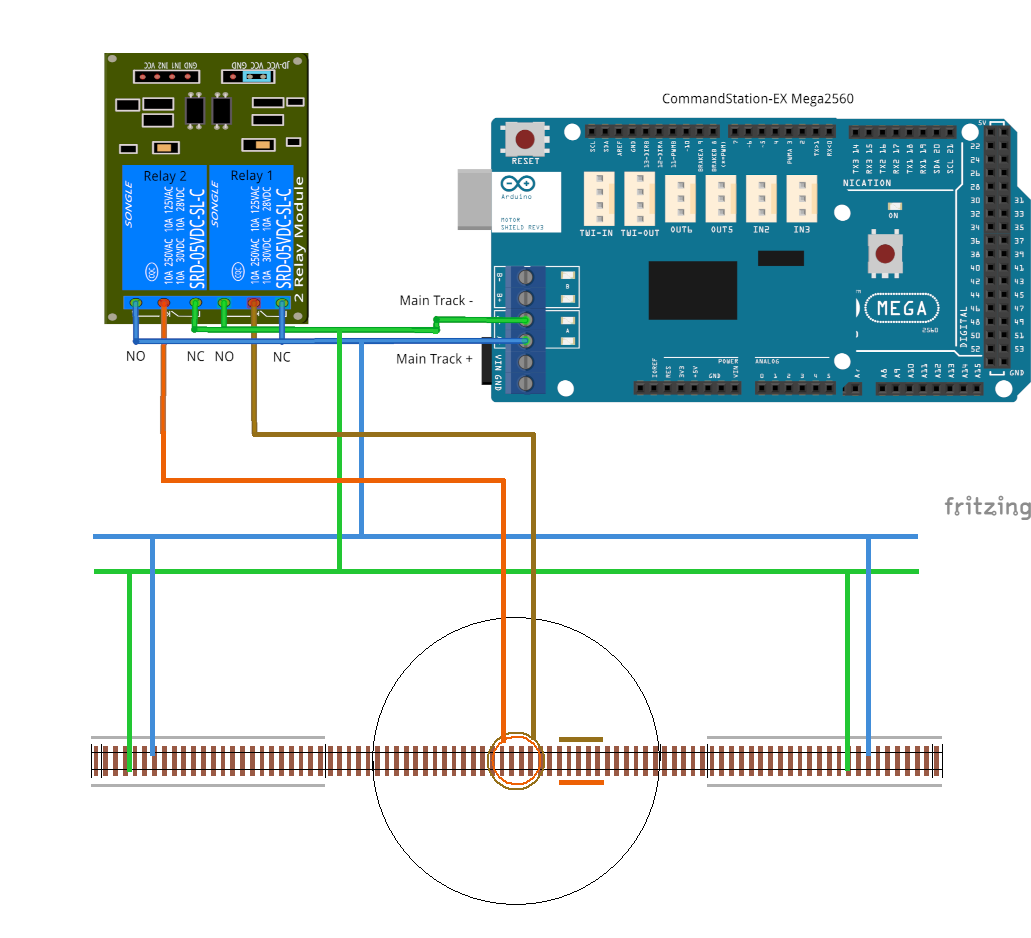
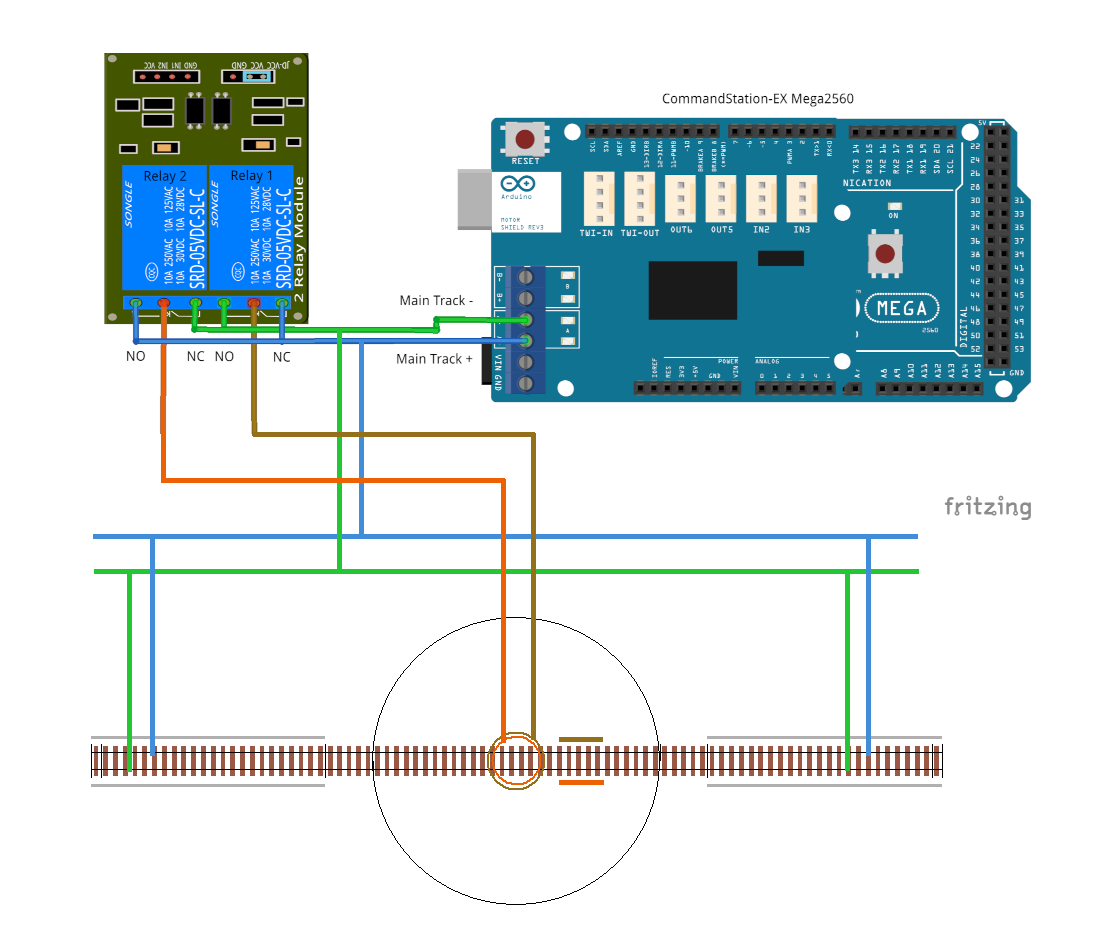
Connection wiring done plus extras

Changed region(s): [[0.0931, 0.0309, 1.0, 0.6183], [0.0621, 0.4638, 1.0, 0.8657]]

diff --git a/docs/turntable-ex/layout-wiring.rst b/docs/turntable-ex/layout-wiring.rst
@@ -13,13 +13,54 @@ Given Turntable-EX is in its infancy at the time of writing, there will likely b
 Split ring connection
 ======================
 
-This first example demonstrates the connection commonly used in commercial turntables, whereby the connection from the track to the turntable bridge is provided by a 
+This first example demonstrates the connection commonly used in commercial turntables, whereby the connection from the track to the turntable bridge is provided by a centre wiper ring or contact that is split into two 180 degree halves.
+
+Wiring these turntables is straight forward, and there is no requirement for either phase switching relays or an auto reverser of any sort.
+
+Phase switching happens automatically with the rotation of the turntable.
+
+.. image:: ../_static/images/turntable-ex/layout-connection-split-ring.png
+  :alt: Layout connection with split centre ring
+  :scale: 50%
 
 Centre connection rings
 ========================
 
-This next example uses a pair of 
+This next example uses a pair of wiper rings or contacts in the centre of the turntable similar to the above scenario, except that both rings cover the full 360 degree rotation, and as such do not provide automatic phase switching.
+
+In this example, we have demonstrated the use of the phase switching relays to solve this problem.
+
+The main track positive (+ blue) connection from your CommandStation gets connected to the normally closed (NC) input of relay 1, and the normally open (NO) input of relay 2.
+
+Conversely, the main track negative (- green) get connected to the normally open (NO) of relay 1, and normally closed (NC) of relay 2.
+
+The common input of each relay is connected to the appropriate centre ring of the turntable to ensure that the phase is in alignment with the adjoining tracks.
+
+In this scenario, with the relays in their default inactive state, the CommandStation + will connect to the brown outer ring, and the - will connect to the green inner ring.
+
+Assuming that the default behaviour of automatic phase switching is enabled, when the turntable rotates 180 degrees, Turntable-EX will automatically activate the relays, resulting in the CommandStation + connecting to the orange inner ring, and the - connecting to the brown outer ring, reversing the phase and preventing a short circuit from occurring.
 
 .. image:: ../_static/images/turntable-ex/layout-connection-centre-rings.png
+  :alt: Layout connection with centre rings
+  :scale: 50%
+
+Pit rail with centre rings
+===========================
+
+This third example is very similar to the above scenario, except that the pit rail itself is active, with wheel wipers on the bridge deck forming the connection in addition to the central wiper ring or contact.
+
+Again, this scenario does not provide automatic phase switching, and the phase switching relays are used to solve this problem.
+
+As above, the main track positive (+ blue) connection from your CommandStation gets connected to the normally closed (NC) input of relay 1, and the normally open (NO) input of relay 2.
+
+Again, the main track negative (- green) get connected to the normally open (NO) of relay 1, and normally closed (NC) of relay 2.
+
+This time, the common input of each relay is connected to either the pit rail or the centre ring as appropriate to ensure that the phase is in alignment with the adjoining tracks.
+
+In this scenario, with the relays in their default inactive state, the CommandStation + will connect to the brown centre ring, and the - will connect to the green pit rail.
+
+Assuming that the default behaviour of automatic phase switching is enabled, when the turntable rotates 180 degrees, Turntable-EX will automatically activate the relays, resulting in the CommandStation + connecting to the orange pit rail, and the - connecting to the brown centre ring, reversing the phase and preventing a short circuit from occurring.
+
+.. image:: ../_static/images/turntable-ex/layout-connection-pit-and-centre-rings.png
   :alt: Layout connection with centre rings
   :scale: 50%

diff --git a/docs/turntable-ex/get-started.rst b/docs/turntable-ex/get-started.rst
@@ -273,6 +273,8 @@ __________________________________
 
   Please read through this entire section prior to loading any software onto your Arduino. It is also recommended that the turntable is able to trigger the homing sensor correctly to ensure the automatic calibration works correctly at first startup.
 
+  Further to this, note that you will need two separate folders, one containing the CommandStation-EX software as per  :doc:`/get-started/arduino-ide`, and an additional folder containing the Turntable-EX software. The Turntable-EX software is not a component of CommandStation-EX or vice versa, and as such they should not exist in the same folder.
+
 At the time of writing, there is no installer for Turntable-EX like there is for the CommandStation, so you will need to install the Arduino IDE and load the software onto the Arduino manually.
 
 The process here is the same as installing CommandStation-EX via the Arduino IDE which you can find on the :doc:`/get-started/arduino-ide` page.

diff --git a/docs/turntable-ex/index.rst b/docs/turntable-ex/index.rst
@@ -10,7 +10,7 @@ Welcome to the home of Turntable-EX, a fully integrated turntable controller for
   turntable-ex
   get-started
   test-and-tune
-  traverser
   layout-wiring
+  traverser
   configure
   troubleshooting
